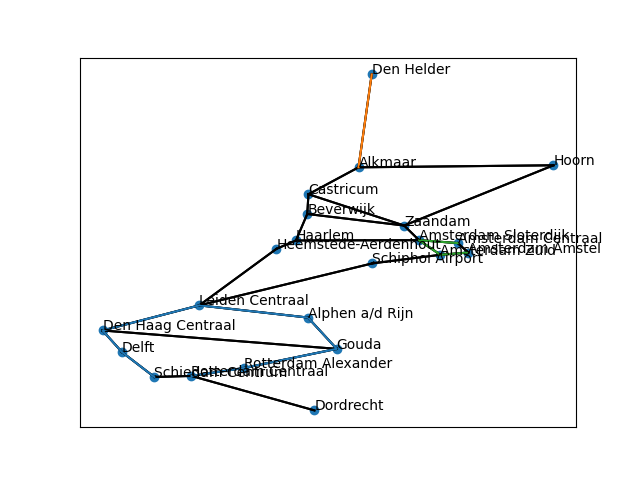
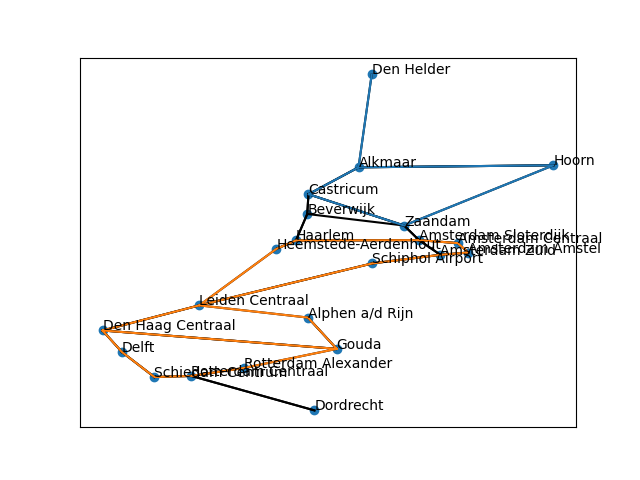
changed the representation of the connections; added a new class for the connections

diff --git a/program/trajectory.py b/program/trajectory.py
@@ -1,4 +1,5 @@
 from .station_node import Station
+from .connection_node import Connection
 import random
 
 class Train():
@@ -19,7 +20,7 @@ class Train():
         self.add_first_station()
 
         while self.stop == False:
-            choices = list(self.current_station.connect.values())
+            choices = self.current_station.connect
             visit_count = 0
             for item in choices:
                 if item.is_visited():
@@ -35,12 +36,14 @@ class Train():
                 self.add_station(next)
 
 
-    def add_station(self, station: "Station"):
-        self.trajectory.append(station.name)
-        time = self.current_station.distances[station.name]
+    def add_station(self, connection: "Connection"):
+        other_station = connection.get_other_station(self.current_station)
+        self.trajectory.append(other_station.name)
+        time = connection.time
         self.time = self.time + time
         self.current_station.visit()
-        self.current_station = station
+        connection.visit()
+        self.current_station = other_station
         self.station_counter += 1
 
     def __repr__(self):

diff --git a/program/connection_node.py b/program/connection_node.py
@@ -1,0 +1,32 @@
+class Connection():
+    def __init__(self, s1, s2, time):
+        self.s1 = s1
+        self.s2 = s2
+        self.time = time
+        self.visited = False
+
+    def is_visited(self):
+        """Check if the current connection is visited"""
+        return self.visited
+
+    def visit(self):
+        """Set current connection as visited
+        """
+        self.visited = True
+
+    def get_other_station(self, station):
+        """ Gets the other station that is connected to the other station via this connection
+
+        Args:
+            station (Station): a Station instance
+
+        Returns:
+            Station or bool: if the inputted station is connected via this connection,
+                                it returns the other station in the connection,  otherwise False.
+        """
+        if station == self.s1:
+            return self.s2
+        elif station == self.s2:
+            return self.s1
+        else:
+            return False

diff --git a/program/station_node.py b/program/station_node.py
@@ -1,17 +1,16 @@
-from typing import Dict, Tuple
+from .connection_node import Connection
+from typing import Dict, Tuple, List
 
 class Station():
     def __init__(self, name: str, x, y) -> None:
         self.name: str = name
-        self.connect: Dict[str, "Station"] = {}
-        self.distances: Dict[str, int] = {}
+        self.connect: List["Connection"] = []
         self.visited: bool = False
         self.coord: Tuple[float] = [x, y]
 
     # adding connections to neighboring stations with time it takes to get there
-    def add_conn(self, name: str, location: "Station", time: int) -> None:
-        self.connect[name] = location
-        self.distances[name] = time
+    def add_conn(self, connection: "Connection") -> None:
+        self.connect.append(connection)
 
     # change bool showing that the station is visited
     def visit(self):

diff --git a/program/network_graph.py b/program/network_graph.py
@@ -1,4 +1,5 @@
 from .station_node import Station
+from .connection_node import Connection
 
 from typing import Dict
 
@@ -71,9 +72,11 @@ class Network():
                 station_node1 = self.stations[station1]
                 station_node2 = self.stations[station2]
 
+                connection = Connection(station_node1, station_node2, distance)
+
                 # adding connections to the created node stations
-                station_node1.add_conn(station2, station_node2, distance)
-                station_node2.add_conn(station1, station_node1, distance)
+                station_node1.add_conn(connection)
+                station_node2.add_conn(connection)
 
     # string representation of station names with connected information in station nodes
     def __repr__(self):

diff --git a/program/visualisation.py b/program/visualisation.py
@@ -17,13 +17,14 @@ def visualize(network, trains):
         coords.append(station.coord)
 
         # load connections for this station
-        connections = station.connect.values()
+        connections = station.connect
 
         # loop though connections
         for con in connections:
+            other = con.get_other_station(station)
             # save coordinates of all the connections
-            x_line = [station.coord[0], con.coord[0]]
-            y_line = [station.coord[1], con.coord[1]]
+            x_line = [station.coord[0], other.coord[0]]
+            y_line = [station.coord[1], other.coord[1]]
 
             # plot connections between all stations
             plt.plot(x_line, y_line, color = 'black')
